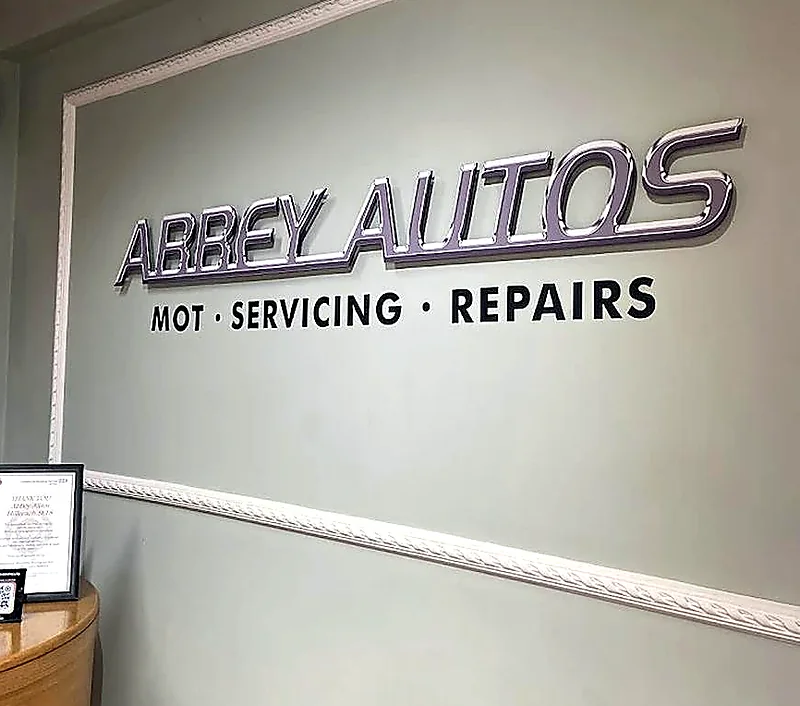
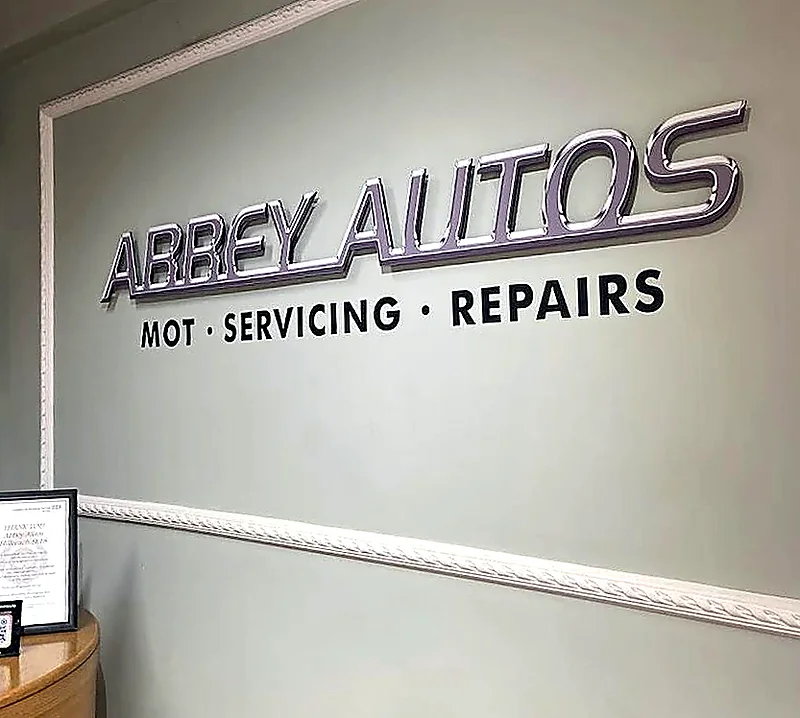
Straighten about and visit photos; correct and automate the Google rating
Photos
- visit: the facade leaned ~2.3 degrees with converging verticals. Corrected
  with a vertical-vanishing-point keystone plus rotation; verticals now sit
  within 0.1 degrees of plumb
- about: verticals were 2.4 degrees off, pure camera roll, so rotation only.
  Deliberately not perspective-corrected — that wall is shot obliquely on
  purpose. Flattening was tested at 35% and 100% and both looked worse than
  the rotation: the sign tilted harder and the chrome lettering stretched
- Both cropped to the largest rectangle fully inside the corrected frame, so
  no smeared edges. img width/height attributes updated to the new aspects

Google rating
The page claimed 4.8 from 316 reviews. The Business Profile now shows 4.5 from
320, so the site was publishing a rating the business does not have — in the
visible copy and in the JSON-LD aggregateRating. Corrected to 4.5 / 320.

To stop it drifting again, the figures are no longer hand-written:
- scripts/sync-google-rating.mjs is the single writer. It updates both display
  figures, the star-bar fill, the rating aria-label and the JSON-LD, so they
  cannot disagree. Run it with --check, with --rating/--count, or with a
  Places API key to fetch
- It never fails a build: missing key, API error, bad payload or an implausible
  count drop all log and leave index.html untouched, exit 0
- netlify.toml runs it at build time so the numbers reach the HTML source
[…]

Changed region(s): [[0.125, 0.1246, 0.9375, 0.4986], [0.0, 0.1246, 1.0, 1.0], [0.125, 0.0, 0.5, 0.1246]]

diff --git a/index.html b/index.html
@@ -355,8 +355,9 @@ footer{background:var(--graphite);color:rgba(255,255,255,.72);padding:60px 0 36p
 <!-- shared SVG symbols -->
 <svg width="0" height="0" style="position:absolute" aria-hidden="true" focusable="false">
   <defs>
-    <linearGradient id="starFill48"><stop offset="96%" stop-color="#f0b429"/><stop offset="96%" stop-color="rgba(255,255,255,.28)"/></linearGradient>
-    <linearGradient id="starFill48d"><stop offset="96%" stop-color="#f0b429"/><stop offset="96%" stop-color="#dfe1e4"/></linearGradient>
+    <!-- star fill % is rating/5 — kept in sync by scripts/sync-google-rating.mjs -->
+    <linearGradient id="starFill"><stop offset="90%" stop-color="#f0b429"/><stop offset="90%" stop-color="rgba(255,255,255,.28)"/></linearGradient>
+    <linearGradient id="starFillLight"><stop offset="90%" stop-color="#f0b429"/><stop offset="90%" stop-color="#dfe1e4"/></linearGradient>
     <symbol id="starRow" viewBox="0 0 100 19">
       <path d="M10 1.6l2.6 5.3 5.8.8-4.2 4.1 1 5.8-5.2-2.7-5.2 2.7 1-5.8L1.6 7.7l5.8-.8L10 1.6z
                M30 1.6l2.6 5.3 5.8.8-4.2 4.1 1 5.8-5.2-2.7-5.2 2.7 1-5.8-4.2-4.1 5.8-.8L30 1.6z
@@ -425,10 +426,10 @@ footer{background:var(--graphite);color:rgba(255,255,255,.72);padding:60px 0 36p
   <div class="cred-grid">
     <div class="cred">
       <div class="cred-top">
-        <svg class="stars" viewBox="0 0 100 19" aria-hidden="true"><use href="#starRow" fill="url(#starFill48)"/></svg>
-        4.8 / 5
+        <svg class="stars" viewBox="0 0 100 19" aria-hidden="true"><use href="#starRow" fill="url(#starFill)"/></svg>
+        <span data-rating>4.5</span> / 5
       </div>
-      <div class="cred-sub"><a href="https://maps.google.com/?cid=12911254494013406728" target="_blank" rel="noopener">316 Google reviews</a></div>
+      <div class="cred-sub"><a href="https://maps.google.com/?cid=12911254494013406728" target="_blank" rel="noopener"><span data-review-count>320</span> Google reviews</a></div>
     </div>
     <div class="cred">
       <div class="cred-top">DVSA approved</div>
@@ -584,7 +585,7 @@ footer{background:var(--graphite);color:rgba(255,255,255,.72);padding:60px 0 36p
           <source type="image/webp" srcset="img/about-800.webp 800w, img/about-1200.webp 1200w" sizes="(max-width:900px) 100vw, 560px">
           <img src="img/about-800.jpg" srcset="img/about-800.jpg 800w, img/about-1200.jpg 1200w" sizes="(max-width:900px) 100vw, 560px"
                alt="Chrome Abbey Autos sign in the reception at 1–2 Hillreach, reading MOT, servicing, repairs"
-               width="800" height="706" loading="lazy" decoding="async">
+               width="800" height="718" loading="lazy" decoding="async">
         </picture>
       </div>
       <div>
@@ -603,9 +604,9 @@ footer{background:var(--graphite);color:rgba(255,255,255,.72);padding:60px 0 36p
     <p class="eyebrow">Reviews</p>
     <h2>What our customers say</h2>
     <div class="rev-head">
-      <svg class="rev-stars" viewBox="0 0 100 19" role="img" aria-label="Rated 4.8 out of 5"><use href="#starRow" fill="url(#starFill48d)"/></svg>
-      <span class="rev-score">4.8 / 5</span>
-      <span class="rev-count">from 316 Google reviews</span>
+      <svg class="rev-stars" viewBox="0 0 100 19" role="img" data-rating-label aria-label="Rated 4.5 out of 5"><use href="#starRow" fill="url(#starFillLight)"/></svg>
+      <span class="rev-score"><span data-rating>4.5</span> / 5</span>
+      <span class="rev-count">from <span data-review-count>320</span> Google reviews</span>
     </div>
     <div class="rev-grid">
       <div class="rev">
@@ -627,7 +628,7 @@ footer{background:var(--graphite);color:rgba(255,255,255,.72);padding:60px 0 36p
         <div class="rev-src">Google review &middot; Woolwich</div>
       </div>
     </div>
-    <a class="rev-link" href="https://maps.google.com/?cid=12911254494013406728" target="_blank" rel="noopener">Read all 316 reviews on Google &rarr;</a>
+    <a class="rev-link" href="https://maps.google.com/?cid=12911254494013406728" target="_blank" rel="noopener">Read all <span data-review-count>320</span> reviews on Google &rarr;</a>
   </div>
 </section>
 
@@ -665,7 +666,7 @@ footer{background:var(--graphite);color:rgba(255,255,255,.72);padding:60px 0 36p
           <source type="image/webp" srcset="img/visit-800.webp 800w, img/visit-1200.webp 1200w" sizes="(max-width:900px) 100vw, 560px">
           <img class="visit-img" src="img/visit-800.jpg" srcset="img/visit-800.jpg 800w, img/visit-1200.jpg 1200w" sizes="(max-width:900px) 100vw, 560px"
                alt="Reception and waiting area entrance at Abbey Autos, 1–2 Hillreach"
-               width="800" height="646" loading="lazy" decoding="async">
+               width="800" height="633" loading="lazy" decoding="async">
         </picture>
         <div class="map">
           <iframe
@@ -814,8 +815,8 @@ footer{background:var(--graphite);color:rgba(255,255,255,.72);padding:60px 0 36p
   ],
   "aggregateRating": {
     "@type": "AggregateRating",
-    "ratingValue": "4.8",
-    "reviewCount": "316",
+    "ratingValue": "4.5",
+    "reviewCount": "320",
     "bestRating": "5",
     "worstRating": "1"
   },

diff --git a/README.md b/README.md
@@ -4,12 +4,18 @@ Static single-page site for Abbey Autos Centre Ltd, 1–2 Hillreach, Woolwich SE
 No build step: plain HTML, inline CSS, one inline script. Deploy the repo root as-is.
 
 ```
-index.html      the site
-thanks.html     form success page (form posts here)
-_headers        Netlify response headers (carries the pre-launch noindex)
+index.html                          the site
+thanks.html                         form success page (form posts here)
+_headers                            Netlify response headers (pre-launch noindex)
+netlify.toml                        build config
 favicon.svg
-img/            hero + section photography, WebP with JPEG fallback
+img/                                photography, WebP with JPEG fallback
+scripts/sync-google-rating.mjs      writes the live Google rating into index.html
+netlify/functions/refresh-rating.mjs  daily cron that triggers a rebuild
 ```
+
+There is no framework and no bundler. The "build" is one script that refreshes
+the Google rating; everything else is served exactly as committed.
 
 Currently deployed for client review at **https://abbey-autos.netlify.app/**
 
@@ -64,6 +70,65 @@ These would each strengthen it, but only once confirmed:
 
 ---
 
+## Google rating — keeping it current
+
+The rating and review count appear in four places on the page and once in the
+JSON-LD. All of them are driven by `scripts/sync-google-rating.mjs`, so they
+can never drift apart from each other.
+
+**Never edit the numbers by hand.** Run:
+
+```bash
+node scripts/sync-google-rating.mjs --check              # is the page stale?
+node scripts/sync-google-rating.mjs --rating 4.5 --count 320   # set manually
+node scripts/sync-google-rating.mjs                      # fetch from Google
+```
+
+The script updates the two display figures, the star-bar fill percentage, the
+`aria-label` on the rating, and `ratingValue` / `reviewCount` in the JSON-LD.
+
+### Turning on the automatic daily refresh
+
+Nothing below is required — without it the committed numbers simply stay put,
+and you update them with `--rating`/`--count` whenever the client mentions it.
+
+1. **Google Cloud** — create a project, enable **Places API (New)**, create an
+   API key. Billing must be enabled on the project. Restrict the key to the
+   Places API. It is only ever used inside the Netlify build, never in the
+   browser, so it does not need a referrer restriction.
+2. **Netlify → Site configuration → Environment variables** — add
+   `GOOGLE_MAPS_API_KEY`. Optionally `GOOGLE_PLACE_ID` (it defaults to
+   `ChIJ1zhWCvGo2EcRCL41OI7_LbM`, Abbey Autos Centre Ltd).
+3. **Netlify → Build & deploy → Build hooks** — add a hook called
+   "Daily rating refresh" pointing at the production branch, and put its URL in
+   an environment variable called `NETLIFY_BUILD_HOOK`.
+
+That's it. `netlify/functions/refresh-rating.mjs` fires at 04:15 UTC daily,
+pokes the build hook, and the rebuild pulls the current figures. One API call
+per day — check current Places API pricing and free-tier allowance before
+switching it on, but at ~30 calls a month this is about as small as usage gets.
+
+### Things worth knowing
+
+- **Failure is safe.** No key, API down, malformed response, implausible
+  numbers — the script logs, leaves `index.html` alone and exits 0. The build
+  never breaks and the site never shows a wrong figure.
+- **Sanity guard.** It refuses to write if the review count drops by more than
+  30%, which is the signature of a wrong place ID or a bad response.
+- **Rounding.** Displayed to one decimal, matching how Google itself shows it.
+- **The JSON-LD `aggregateRating` will not put stars in Google's results.**
+  Google does not show review rich results for self-serving `LocalBusiness`
+  markup, and reviews sourced from a third party (Google itself, here) are
+  outside their review-snippet guidelines. It is kept because it is accurate
+  and other consumers read it, but do not expect SEO gain from it. If you would
+  rather not carry it at all, delete the `aggregateRating` block from the
+  JSON-LD — nothing else depends on it.
+- **Attribution.** Google requires Places data to be attributed. The page
+  already labels the figures as Google reviews and links to the Google listing,
+  which covers it.
+
+---
+
 ## Photography
 
 All images are the client's own photos, re-processed — nothing was shot new and
@@ -80,7 +145,21 @@ Processing applied:
   "Catalysts Tested / Diesels Tested" board and two technicians working on a
   car. That is the strongest credibility asset on the page, so the crop now
   leads with it.
-- **about / visit** — trimmed clutter at the frame edges, levelled, sharpened.
+- **visit** — the facade was leaning ~2.3 degrees with converging verticals.
+  Corrected with a vertical-vanishing-point keystone plus rotation; verticals
+  now sit within 0.1 degrees of plumb.
+- **about** — verticals were 2.4 degrees off, pure camera roll, fixed with a
+  rotation. Deliberately *not* perspective-corrected: the wall is shot
+  obliquely on purpose, so its horizontals are meant to converge. Flattening
+  it was tested at 35% and 100% strength and both looked worse than the
+  rotation alone — the sign tilted harder and the chrome lettering stretched.
+- Both then cropped to the largest rectangle fully inside the corrected frame,
+  so no smeared edges.
+
+**Straightening rule of thumb:** if the subject is a flat facade shot roughly
+head-on (hero, MOT, visit), correct the perspective. If it is a surface shot at
+an angle on purpose (about), only correct the roll — the receding lines are
+what give it depth, and removing them makes it look wrong.
 
 To re-export after replacing a source photo, the recipe is: crop → mild
 contrast/colour → Lanczos resize → unsharp mask → save WebP q84 + progressive
